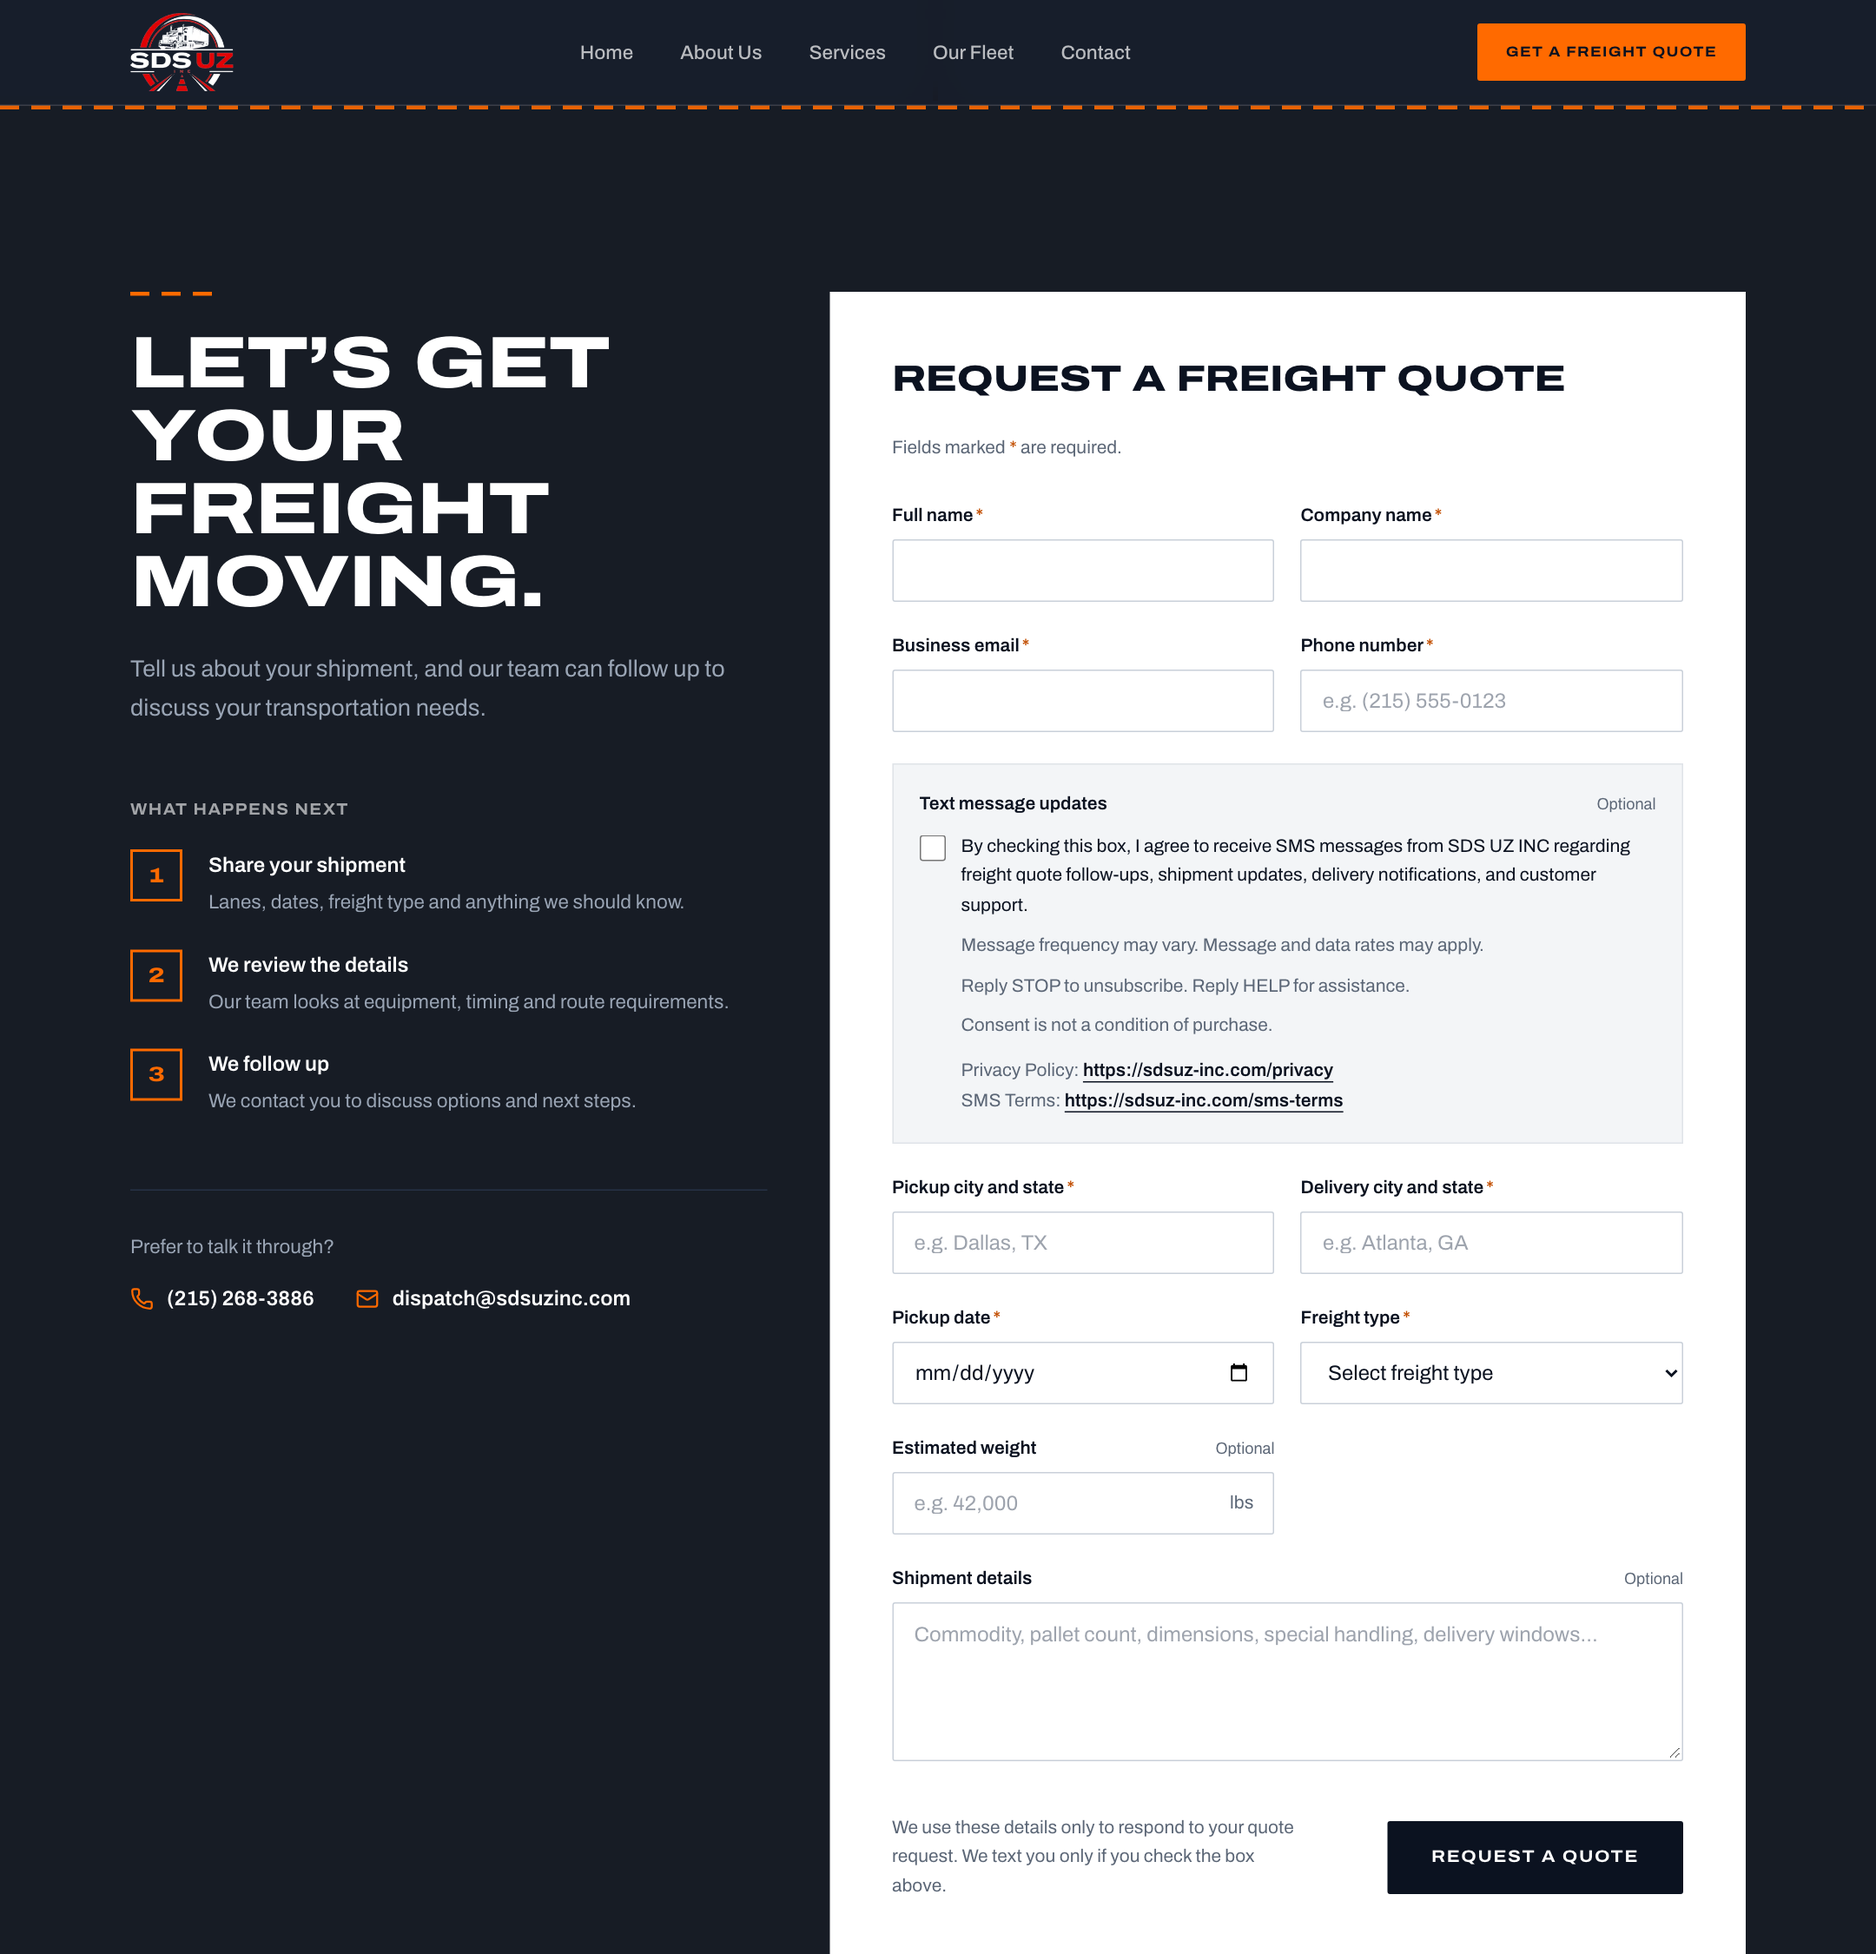
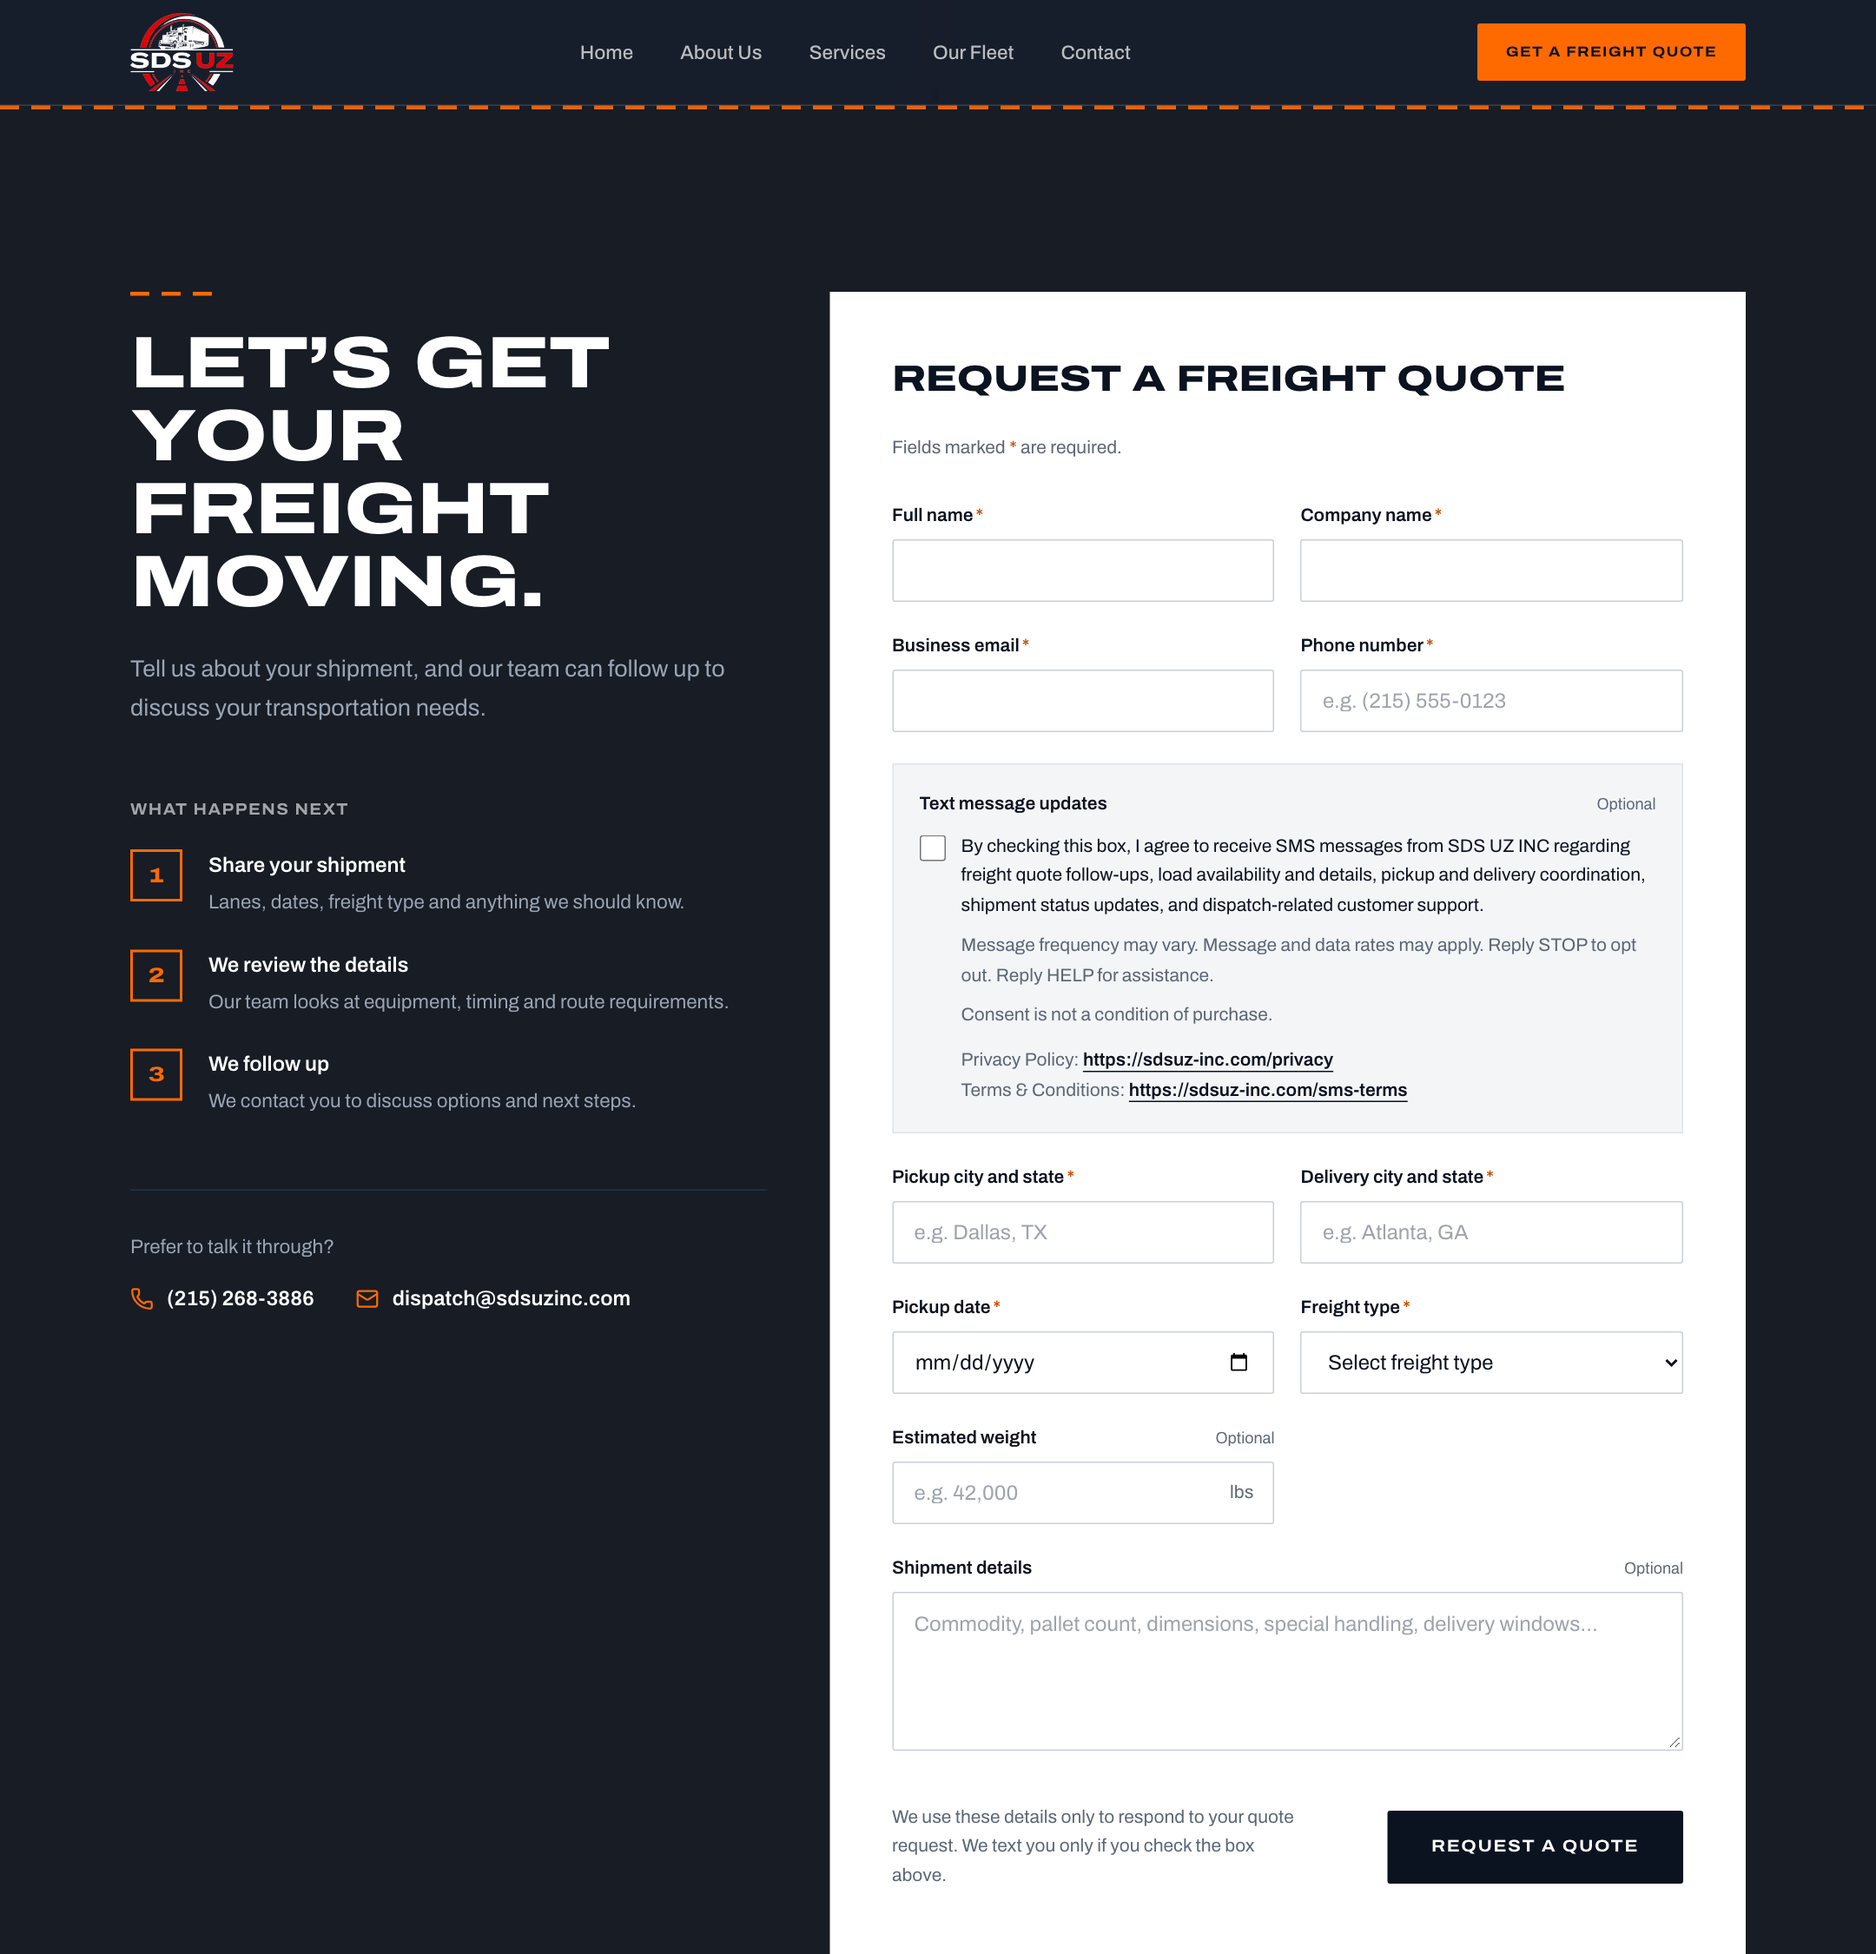
SMS consent: message types for the Conversations (external) use case
RingCentral asked for message types matching the campaign's use case
beside the SMS consent checkbox.

- Consent text version 2026-11-04: freight quote follow-ups, load
  availability and details, pickup and delivery coordination, shipment
  status updates, and dispatch-related customer support; links labelled
  Privacy Policy and Terms & Conditions
- SMS Terms, Privacy Policy and About list the same message types; the
  SMS Terms quote the new disclosure
- Evidence: new 07-updated-sms-consent-disclosure.png, 01-06 retaken
  from the live site, message flow text and README updated

diff --git a/public/sms-terms.html b/public/sms-terms.html
@@ -38,7 +38,7 @@
       <div class="wrap">
         <span class="lane" aria-hidden="true"></span>
         <h1>SMS Terms &amp; Conditions</h1>
-        <p class="updated">SDS UZ INC · Last updated: November 2, 2026</p>
+        <p class="updated">SDS UZ INC · Last updated: November 4, 2026</p>
       </div>
     </section>
 
@@ -54,9 +54,10 @@
         </p>
         <ul>
           <li>Freight quote follow-ups, such as questions about a quote request or the quote itself.</li>
-          <li>Shipment updates, such as pickup confirmations and changes to a schedule.</li>
-          <li>Delivery notifications, such as arrival and delivery confirmations.</li>
-          <li>Customer support replies to questions you send us.</li>
+          <li>Load availability and details for shipments you have asked us about.</li>
+          <li>Pickup and delivery coordination, such as pickup and delivery times and appointments.</li>
+          <li>Shipment status updates, such as pickup confirmations, schedule changes and delivery confirmations.</li>
+          <li>Dispatch-related customer support, such as replies from our dispatch team to your questions.</li>
         </ul>
         <p>We do not send marketing or promotional text messages.</p>
 
@@ -69,15 +70,16 @@
         <blockquote>
           <p>
             By checking this box, I agree to receive SMS messages from SDS UZ INC regarding freight quote follow-ups,
-            shipment updates, delivery notifications, and customer support.
+            load availability and details, pickup and delivery coordination, shipment status updates, and
+            dispatch-related customer support.
           </p>
-          <p>Message frequency may vary. Message and data rates may apply.</p>
-          <p>Reply STOP to unsubscribe. Reply HELP for assistance.</p>
-          <p>Consent is not a condition of purchase.</p>
           <p>
-            Privacy Policy: <a href="https://sdsuz-inc.com/privacy">https://sdsuz-inc.com/privacy</a><br />
-            SMS Terms: <a href="https://sdsuz-inc.com/sms-terms">https://sdsuz-inc.com/sms-terms</a>
+            Message frequency may vary. Message and data rates may apply. Reply STOP to opt out. Reply HELP for
+            assistance.
           </p>
+          <p>Consent is not a condition of purchase.</p>
+          <p>Privacy Policy: <a href="https://sdsuz-inc.com/privacy">https://sdsuz-inc.com/privacy</a></p>
+          <p>Terms &amp; Conditions: <a href="https://sdsuz-inc.com/sms-terms">https://sdsuz-inc.com/sms-terms</a></p>
         </blockquote>
         <p>
           Browsing this website, calling or emailing us, or entering a phone number on the form without checking the box

diff --git a/src/config/site.ts b/src/config/site.ts
@@ -286,28 +286,27 @@ export const quoteForm = {
  * RingCentral campaign, and change `smsConsentVersion` whenever the wording changes.
  */
 export const smsConsentParagraphs = [
-  'By checking this box, I agree to receive SMS messages from SDS UZ INC regarding freight quote follow-ups, shipment updates, delivery notifications, and customer support.',
-  'Message frequency may vary. Message and data rates may apply.',
-  'Reply STOP to unsubscribe. Reply HELP for assistance.',
+  'By checking this box, I agree to receive SMS messages from SDS UZ INC regarding freight quote follow-ups, load availability and details, pickup and delivery coordination, shipment status updates, and dispatch-related customer support.',
+  'Message frequency may vary. Message and data rates may apply. Reply STOP to opt out. Reply HELP for assistance.',
   'Consent is not a condition of purchase.',
 ] as const
 
 export const smsConsentLinks = [
   { label: 'Privacy Policy', href: 'https://sdsuz-inc.com/privacy' },
-  { label: 'SMS Terms', href: 'https://sdsuz-inc.com/sms-terms' },
+  { label: 'Terms & Conditions', href: 'https://sdsuz-inc.com/sms-terms' },
 ] as const
 
-export const smsConsentText = [
-  ...smsConsentParagraphs,
-  smsConsentLinks.map((l) => `${l.label}: ${l.href}`).join('\n'),
-].join('\n\n')
+export const smsConsentText = [...smsConsentParagraphs, ...smsConsentLinks.map((l) => `${l.label}: ${l.href}`)].join(
+  '\n\n',
+)
 
 /**
  * Date the wording went live, plus a revision number for a second change on the same day.
  * History: 2026-11-02 ("See our Privacy Policy and SMS Terms & Conditions."),
- * 2026-11-02.2 (policy links written out as full URLs).
+ * 2026-11-02.2 (policy links written out as full URLs),
+ * 2026-11-04 (message types matching the RingCentral "Conversations (external)" use case).
  */
-export const smsConsentVersion = '2026-11-02.2'
+export const smsConsentVersion = '2026-11-04'
 
 /** Machine-readable consent source recorded with each request. */
 export const smsConsentSource = 'website_quote_form'

diff --git a/public/privacy.html b/public/privacy.html
@@ -38,7 +38,7 @@
       <div class="wrap">
         <span class="lane" aria-hidden="true"></span>
         <h1>Privacy Policy</h1>
-        <p class="updated">SDS UZ INC · Last updated: November 2, 2026</p>
+        <p class="updated">SDS UZ INC · Last updated: November 4, 2026</p>
       </div>
     </section>
 
@@ -65,7 +65,7 @@
         <h2>3. How we use your information</h2>
         <ul>
           <li>To provide and manage our services and respond to your requests.</li>
-          <li>To send you text messages you have agreed to receive, such as quote follow-ups, shipment and delivery updates, and customer support replies (see section 5).</li>
+          <li>To send you text messages you have agreed to receive, such as freight quote follow-ups, load availability and details, pickup and delivery coordination, shipment status updates, and dispatch-related customer support (see section 5).</li>
           <li>To keep records and comply with legal obligations.</li>
         </ul>
 
@@ -92,7 +92,8 @@
           can request a quote without checking it. Browsing this website, or giving us a phone number without checking
           that box, does not sign you up for text messages.</p>
         <p><strong>What we text about.</strong> If you opt in to SDS UZ INC SMS Notifications, we may text you about
-          freight quote follow-ups, shipment updates, delivery notifications, and customer support. We do not send
+          freight quote follow-ups, load availability and details, pickup and delivery coordination, shipment status
+          updates, and dispatch-related customer support. We do not send
           marketing texts. Message frequency may vary. Message and data rates may apply. Consent is not a condition of
           purchase.</p>
         <p><strong>Opting out and getting help.</strong> Reply STOP to any message to unsubscribe at any time. Reply HELP

diff --git a/public/about.html b/public/about.html
@@ -72,8 +72,8 @@
           <h2>How we communicate with customers</h2>
           <p>
             Customers reach us by phone, email or through our quote request form. Customers who choose to opt in on that
-            form can also receive text messages from SDS UZ INC about quote follow-ups, shipment and delivery updates,
-            and customer support replies. See our <a href="/sms-terms">SMS Terms &amp; Conditions</a>.
+            form can also receive text messages from SDS UZ INC about freight quote follow-ups, load availability and
+            details, pickup and delivery coordination, shipment status updates, and dispatch-related customer support. See our <a href="/sms-terms">SMS Terms &amp; Conditions</a>.
           </p>
 
           <a class="button" href="/#quote">Get a freight quote</a>
